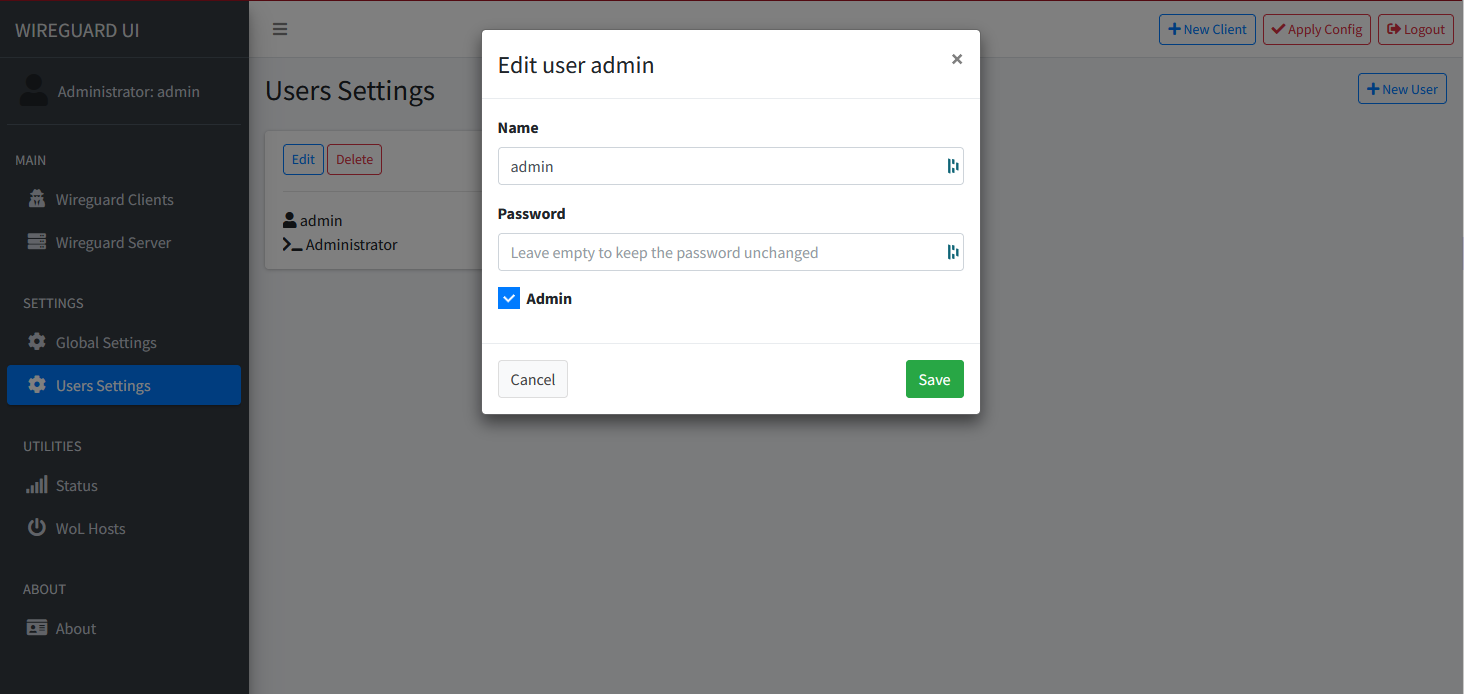
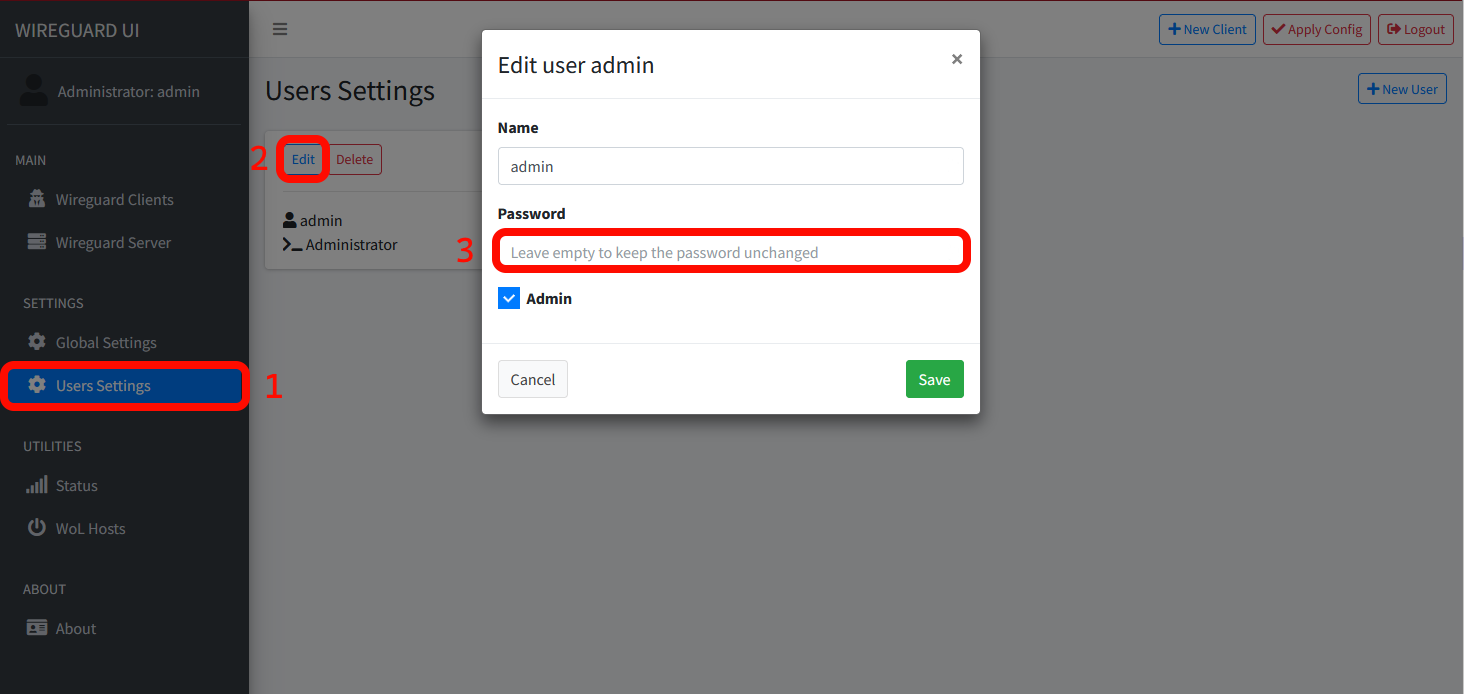
u

Changed region(s): [[0.3074, 0.3026, 0.6762, 0.3934], [0.0, 0.5144, 0.2152, 0.6052], [0.1537, 0.1816, 0.2459, 0.2723]]

diff --git a/tutorials/installing-wireguard-ui-using-docker-compose/01.en.md b/tutorials/installing-wireguard-ui-using-docker-compose/01.en.md
@@ -67,7 +67,7 @@ services:
       - ./config:/config
     ports:
       # port for wireguard-ui. this must be set here as the `wireguard-ui` container joins the network of this container and hasn't its own network over which it could publis>
-      - "80:5000"
+      - "5000:5000"
       # port of the wireguard server
       - "51820:51820/udp"
     restart: unless-stopped
@@ -101,7 +101,7 @@ services:
     restart: unless-stopped
 ```
 
-## Step 3 - Starting the Container
+## Step 3 - Starting the Container and accessing the GUI
 
 To start the container enter:
 ```bash
@@ -117,16 +117,33 @@ The output should look like:
  ✔ Container wireguard-ui  Started
 ```
 
-Using your browser enter http://<203.0.113.1>
+Using your browser enter http://<203.0.113.1>:5000
+
+I recommend using a reverse proxy from now on.
+[NGINX Proxy Manager](https://community.hetzner.com/tutorials/installing-nginx-proxy-manager)
 
 If you were successful you should see the wireguard UI login page. The default credentials are:
  
 - U: admin
 - PW: admin
 
-Change this password immediately after login in the first time!
+Change this password immediately after loging in the first time!
 
 **später bild password einfügen**
+
+## Step 4 - Configure Routing
+
+Under Wireguard Server enter:
+
+**Post Up Script**
+```bash
+iptables -A FORWARD -i %1 -j ACCEPT; iptables -A FORWARD -o wg0 -j ACCEPT; iptables -t nat -A POSTROUTING -o eth+ -j MASQUERADE
+```
+
+**Post Down Script**
+```bash
+iptables -D FORWARD -i %1 -j ACCEPT; iptables -D FORWARD -o wg0 -j ACCEPT; iptables -t nat -D POSTROUTING -o eth+ -j MASQUERADE
+```
 
 **Example terminology**
 
